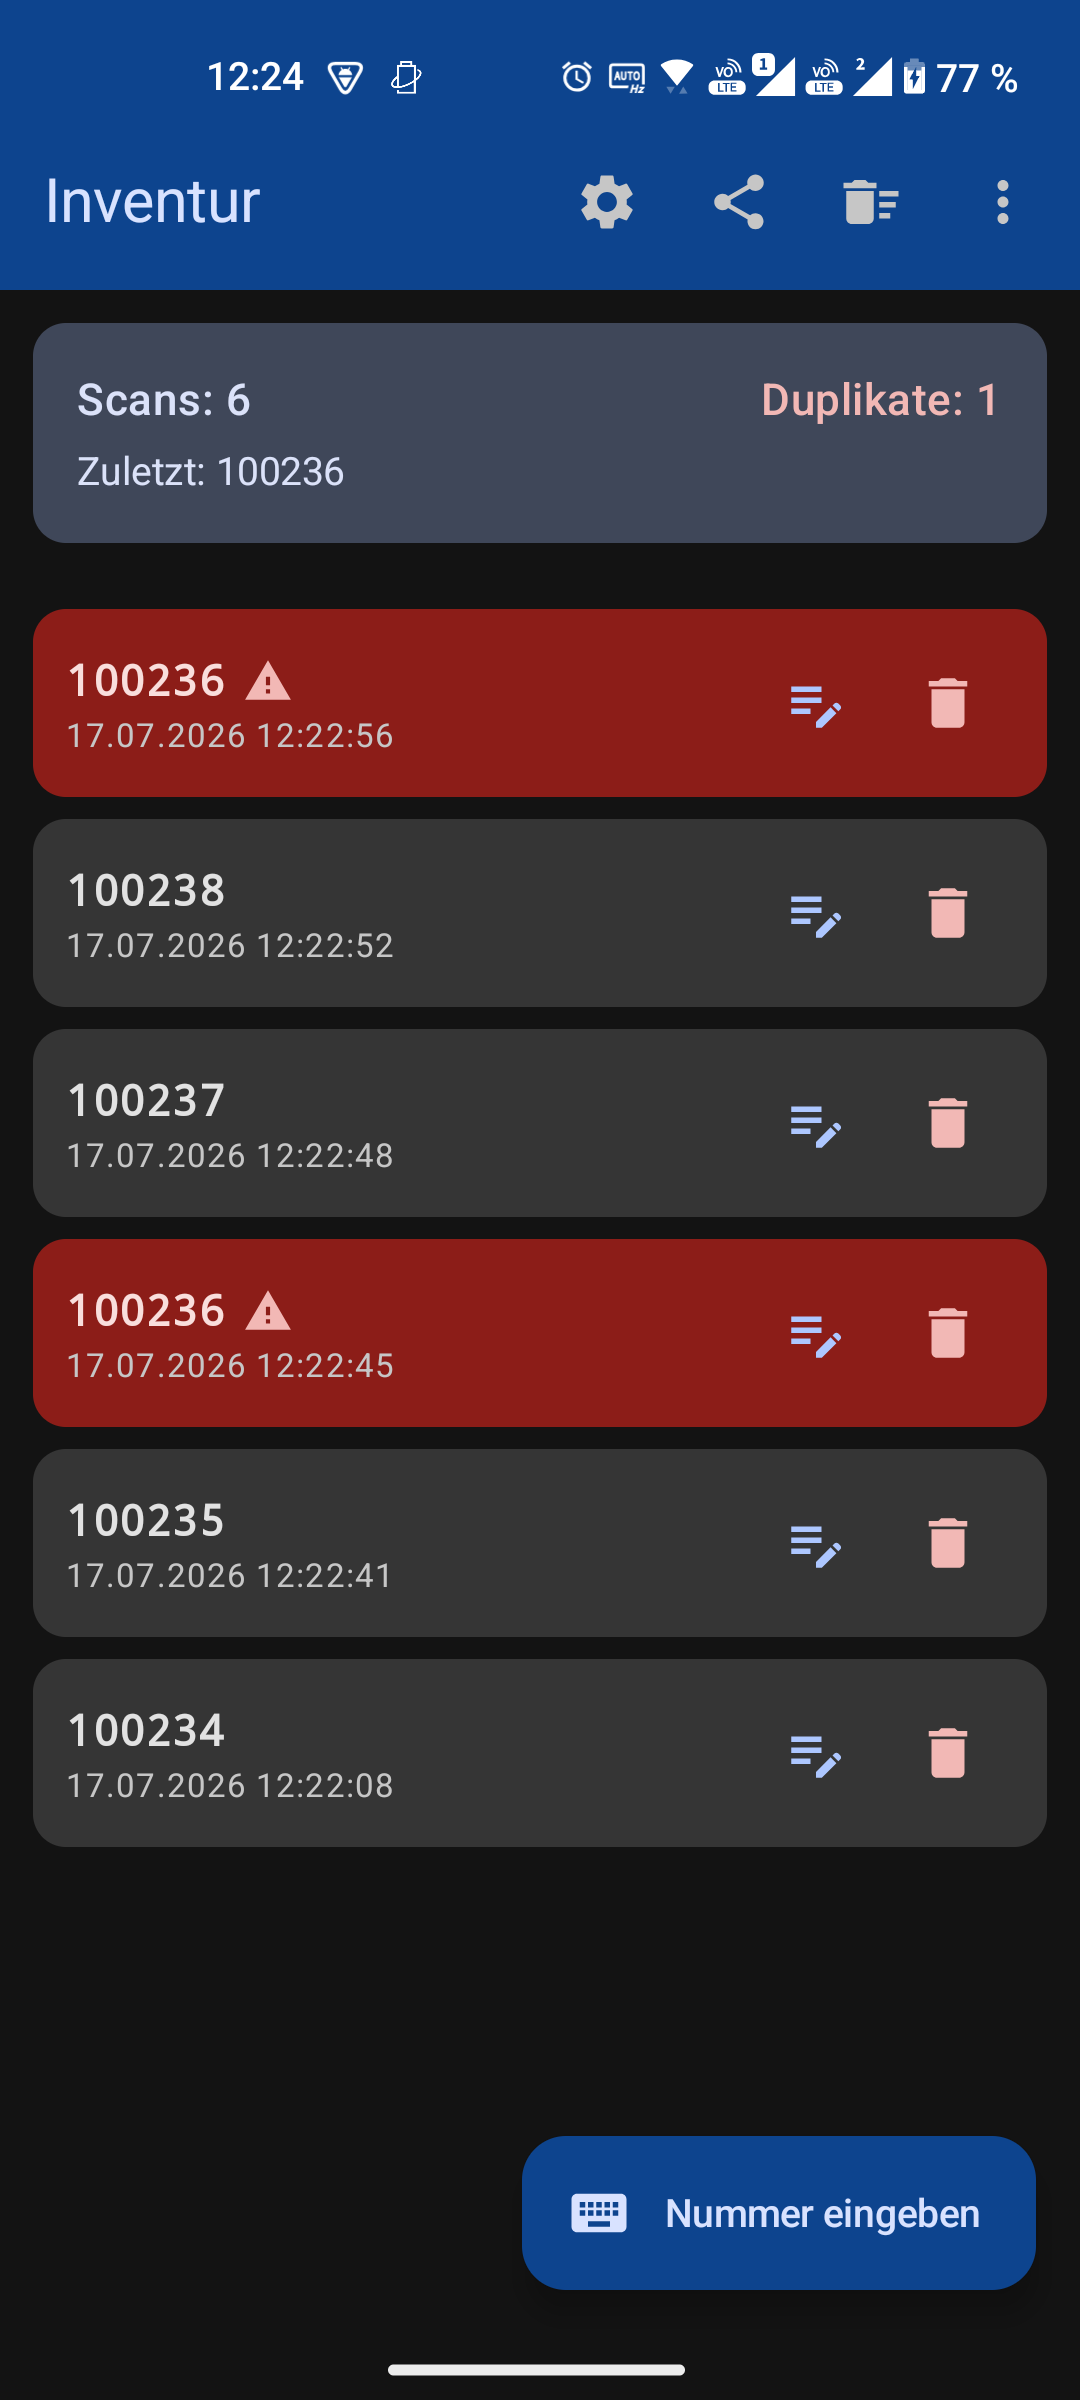
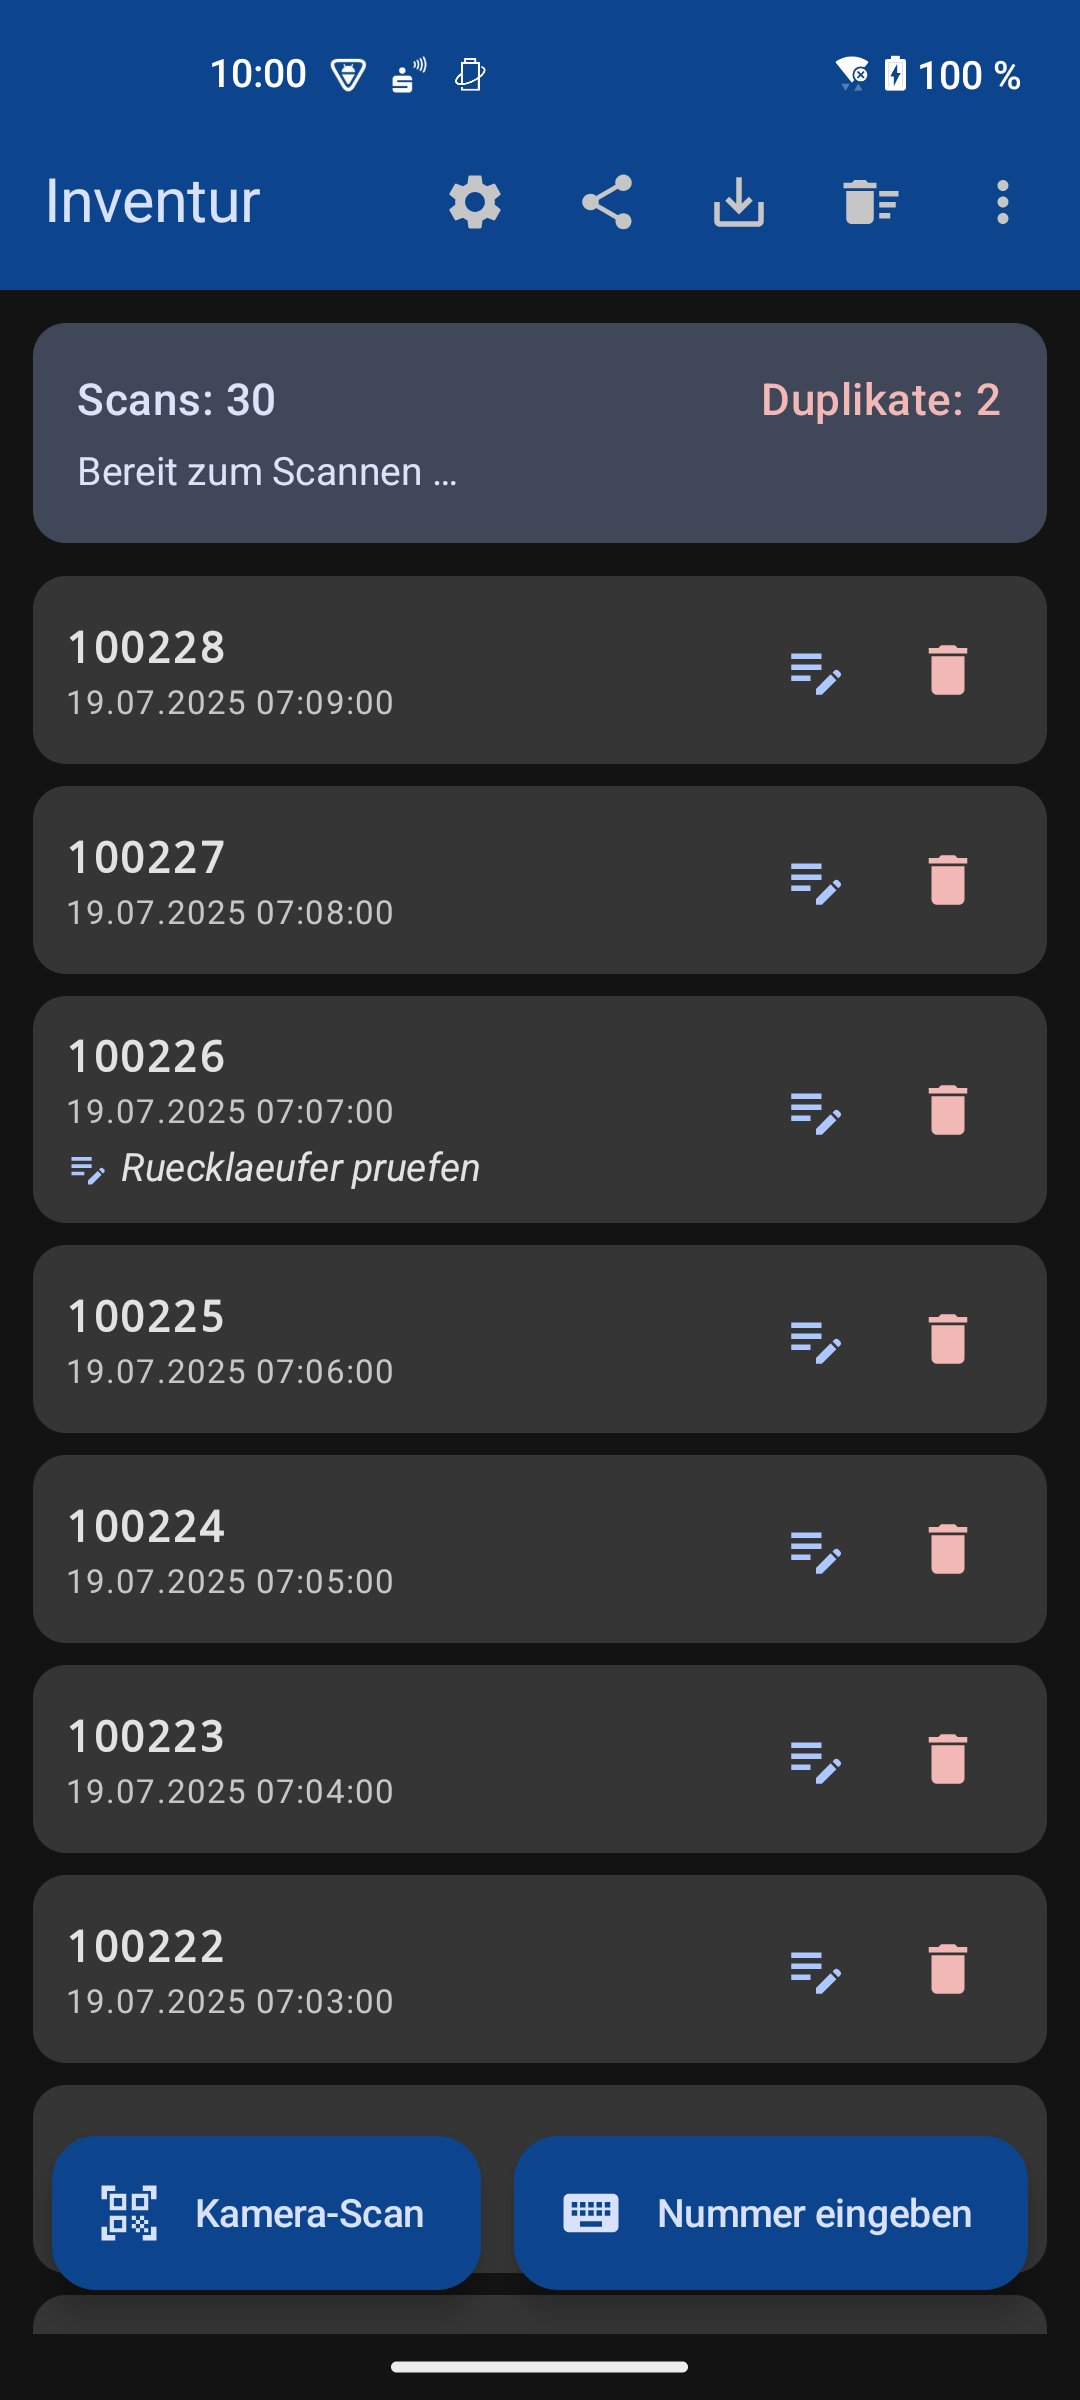
Play-Store-Material für 1.8: Screenshots, Release-Infos, Datenschutz
- Screenshots aktualisiert: main.png zeigt die aktuelle Oberfläche
  (Kamera-Scan-FAB, neuer "Als CSV speichern"-Button).
- Tablet-Screenshots ergänzt: tablet-main.png (3-Spalten-Raster),
  tablet-panel.png (Liste + Seitenleiste), tablet-usb.png (CSV auf USB-Stick).
- release-notes.md: Abschnitt für Version 1.8 (Tablet-Layout, USB-/Datei-Export,
  16-KB-Kompatibilität), de + en.
- store-listing.md: Vollbeschreibung um USB-/Datei-Export und Tablet-Optimierung
  ergänzt; Tablet-Screenshots im Asset-Abschnitt.
- README.md: Versionsstand 1.8 (versionCode 9), Tablet-Screenshots.
- CHANGELOG.md: Einträge für 1.7 und 1.8.
- Datenschutzerklärung (html + md): USB-/Datei-Export ergänzt, Stand 19.07.2026.
  Live-Seite bereits aktualisiert.

diff --git a/CHANGELOG.md b/CHANGELOG.md
@@ -4,6 +4,30 @@ Alle nennenswerten Änderungen an der App **Inventur**.
 Format angelehnt an [Keep a Changelog](https://keepachangelog.com/de/1.1.0/);
 Versionierung nach `versionName (versionCode)`.
 
+## [1.8 (9)] – 2026-07-19
+
+### Hinzugefügt
+- CSV-Export an einen frei wählbaren Speicherort über das Storage Access
+  Framework – u.a. direkt auf einen per USB-OTG angeschlossenen USB-Stick,
+  ohne zusätzliche Speicherberechtigung. Neuer Toolbar-Button „Als CSV
+  speichern"; der bestehende Teilen-Weg bleibt erhalten.
+
+### Geändert
+- Version auf 1.8 (versionCode 9) angehoben.
+
+## [1.7 (8)] – 2026-07-19
+
+### Behoben
+- 16-KB-Speicherseiten-Kompatibilität: die native Inateck-Bibliothek
+  `libscanner_cmd.so` wurde verlustfrei auf 16-KB-Segmentgrenzen ausgerichtet
+  (`p_align` 0x4000). Auf einem 16-KB-Emulator (Android 16) verifiziert.
+
+### Geändert
+- Responsives Layout je nach Bildschirmbreite: einspaltige Liste (Handy
+  hochkant), zwei Panele mit Liste und Seitenleiste (Handy quer / Tablet
+  hochkant) und dreispaltiges Raster (Tablet quer).
+- Version auf 1.7 (versionCode 8) angehoben.
+
 ## [1.6 (7)] – 2026-07-18
 
 ### Geändert
